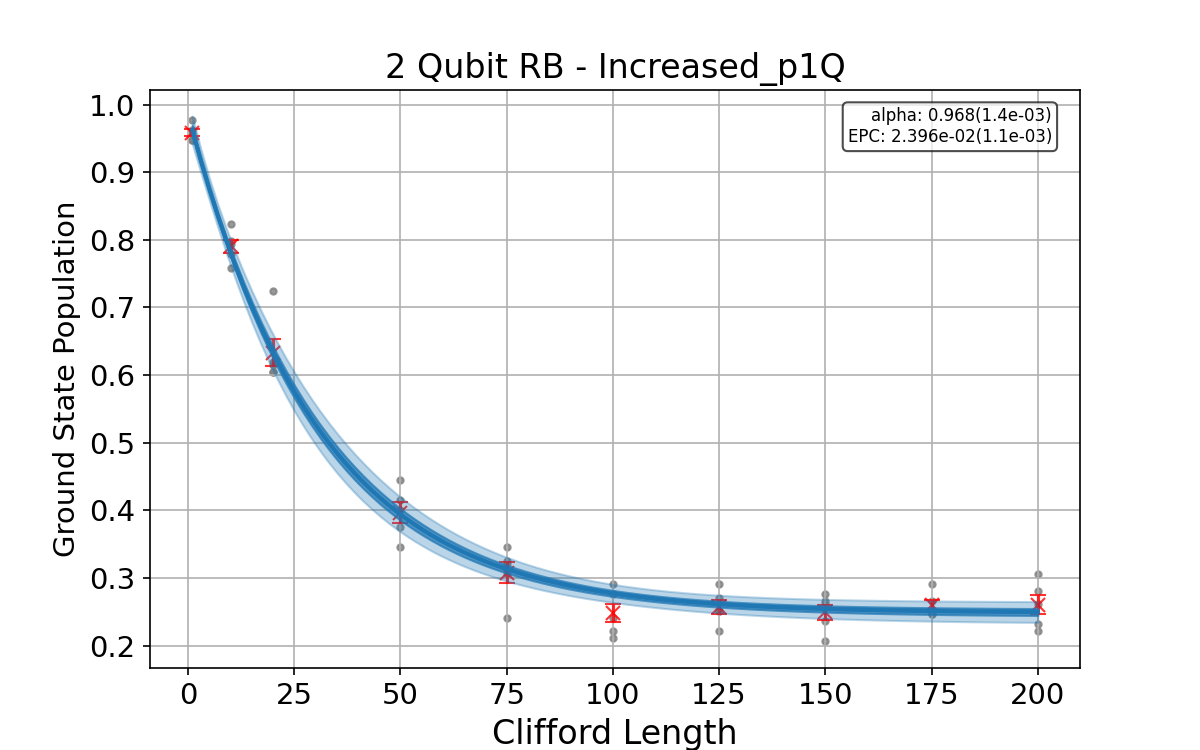
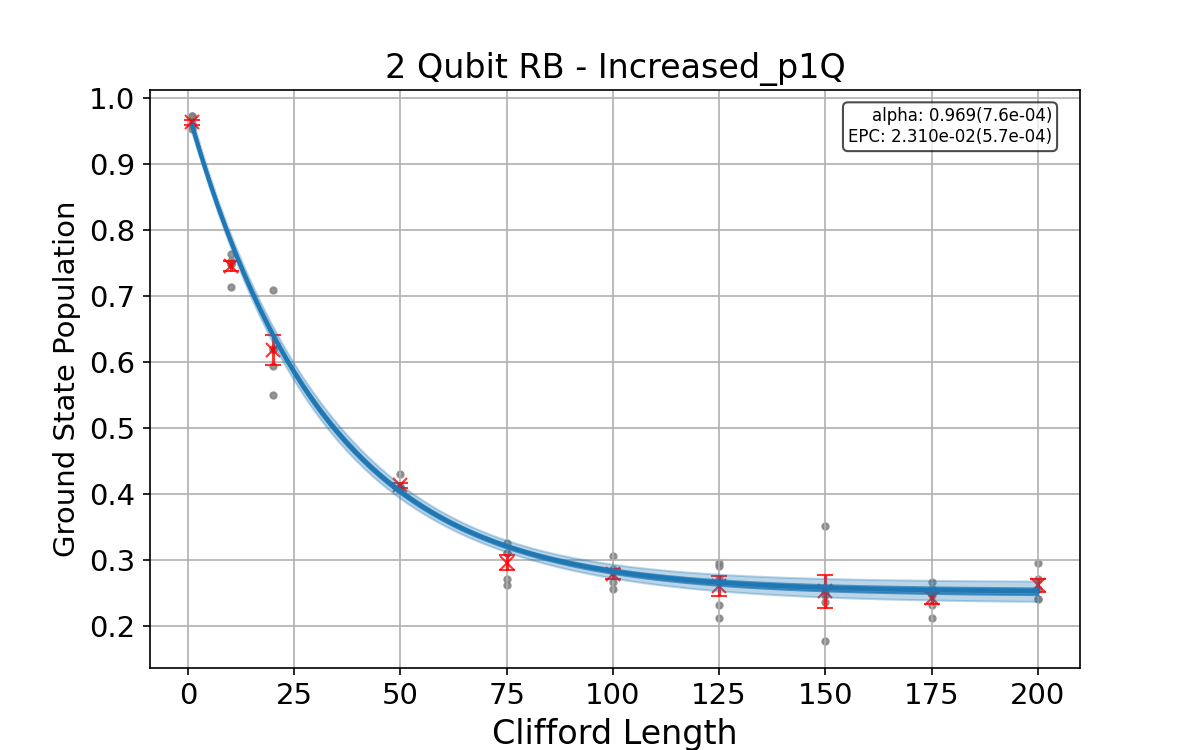
added my results

diff --git a/src/main.py b/src/main.py
@@ -233,7 +233,39 @@ results_dec_p2q = run_rb_experiment(
 )
 all_results.append(results_dec_p2q)
 
-# You can add a summary print here if you like:
+# --- Experiment 3: Varying Clifford Lengths ---
+
+# 3a. Shorter and Fewer Clifford Lengths
+print("\n--- Experiment 3a: Shorter and Fewer Clifford Lengths ---")
+shorter_fewer_lengths = [1, 5, 10, 20, 30, 40, 50] # Fewer points, max length 50
+results_shorter_lengths = run_rb_experiment(
+    experiment_name="Shorter_Fewer_Lengths",
+    physical_qubits_tuple=baseline_physical_qubits,
+    clifford_lengths=shorter_fewer_lengths, # Changed parameter
+    num_seeds=baseline_nseeds,
+    p1q_noise=baseline_p1Q,
+    p2q_noise=baseline_p2Q
+)
+all_results.append(results_shorter_lengths)
+
+# 3b. More Dense Clifford Lengths (covering similar or extended range)
+print("\n--- Experiment 3b: More Dense Clifford Lengths ---")
+longer_dense_lengths = np.linspace(1, 200, 15, dtype=int).tolist() # ~15 points from 1 to 200
+if 1 not in longer_dense_lengths and longer_dense_lengths[0] > 1:
+    longer_dense_lengths = [1] + longer_dense_lengths
+longer_dense_lengths = sorted(list(set(longer_dense_lengths)))
+print(f"Using lengths for 3b: {longer_dense_lengths}")
+
+results_longer_dense_lengths = run_rb_experiment(
+    experiment_name="Longer_Dense_Lengths",
+    physical_qubits_tuple=baseline_physical_qubits,
+    clifford_lengths=longer_dense_lengths,
+    num_seeds=baseline_nseeds,
+    p1q_noise=baseline_p1Q,
+    p2q_noise=baseline_p2Q
+)
+all_results.append(results_longer_dense_lengths)
+
 print("\n\n--- SUMMARY OF RESULTS ---")
 for res in all_results:
     print(f"Experiment: {res['name']:<20} | EPC: {res['epc']:.4e} \u00B1 {res['epc_err']:.1e} | Alpha: {res['alpha']:.4f} \u00B1 {res['alpha_err']:.1e}")
